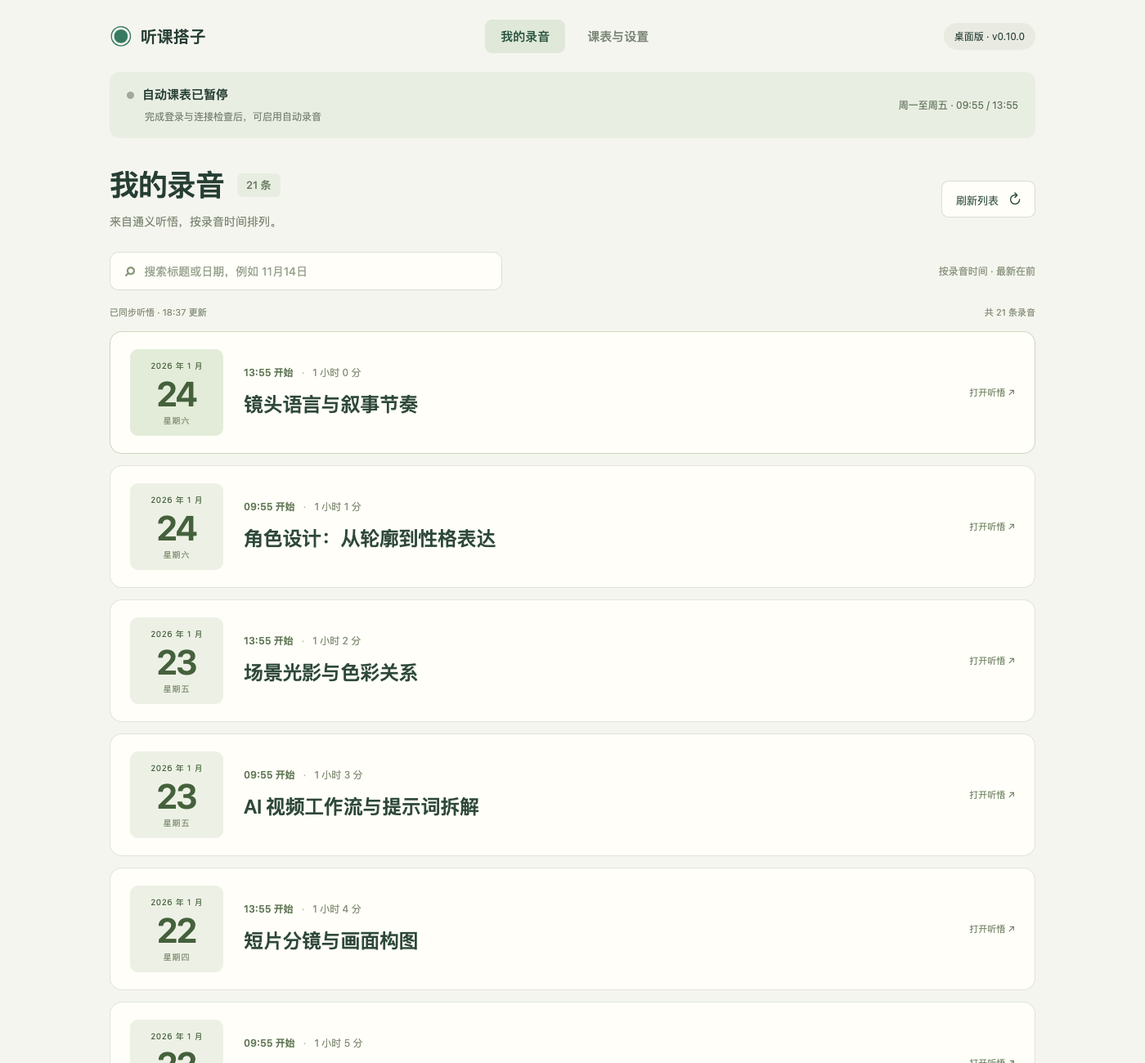
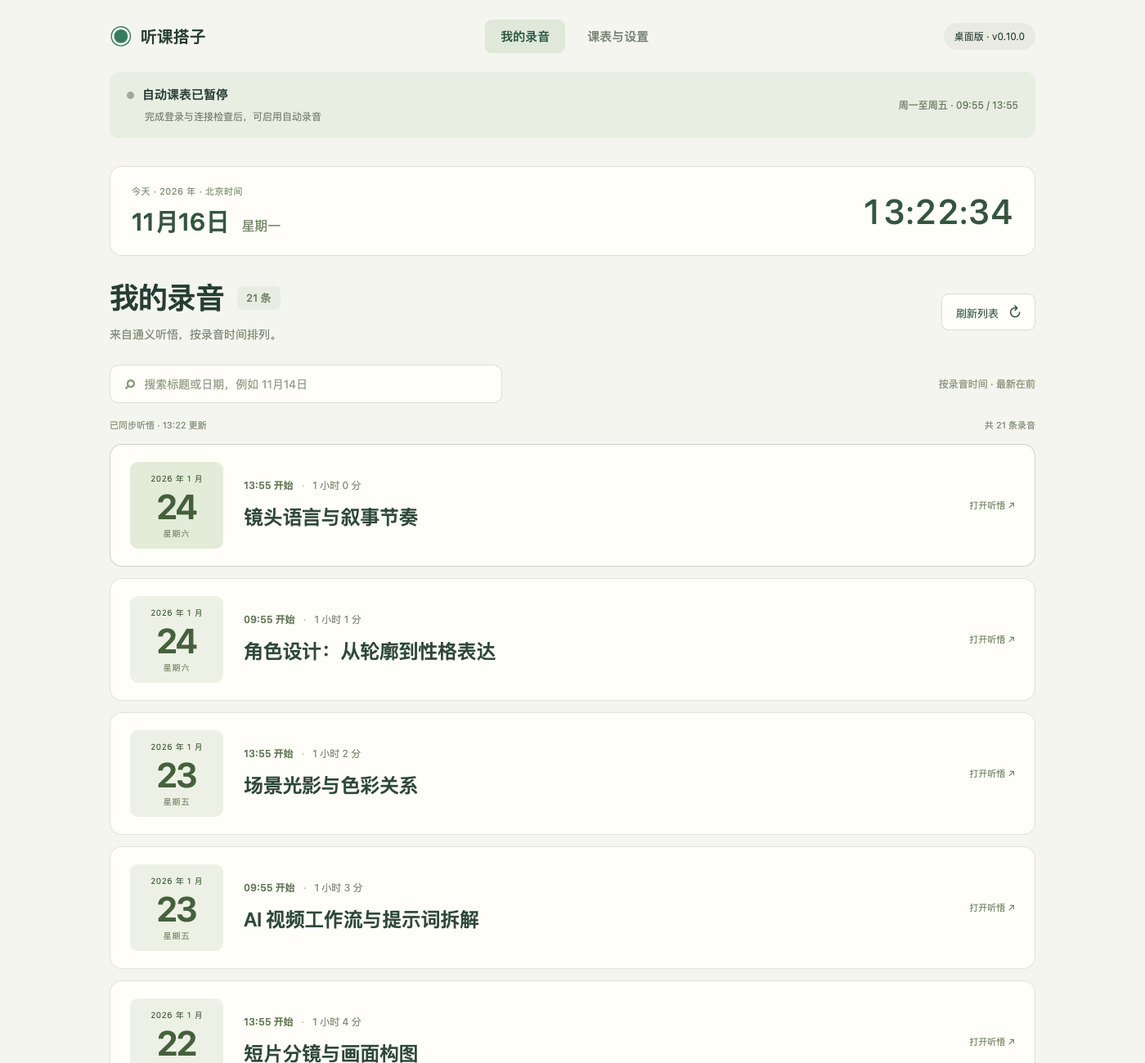
feat: add a live home clock and colorful branching lesson maps
Show the current Beijing date, weekday and time on the home page, updating every second and across midnight. Replace the map view with rounded nodes and curved, color-coded branches from the lesson topic to chapters, key points and Tingwu notes.

Support panning, zooming, fit-to-width/full-map views, branch expansion and full-text inspection while preserving the outline, notes and transcript views. The installed desktop UI was updated without restarting the recording service.

Validation: isolated desktop UI checks for layout, non-overlapping nodes, note text, panning, zoom, folding, navigation and existing controls; cached long-class checks preserve 24 chapters, 55 points and 38 notes across 122 nodes. Public preview images use fictional lessons. No personal content, credentials or runtime data are included.

diff --git a/desktop/app.js b/desktop/app.js
@@ -1,4 +1,18 @@
 const $=s=>document.querySelector(s), token=$('meta[name="tingwu-token"]').content;
+const homeClockFormat=new Intl.DateTimeFormat('zh-CN',{timeZone:'Asia/Shanghai',year:'numeric',month:'numeric',day:'numeric',weekday:'long',hour:'2-digit',minute:'2-digit',second:'2-digit',hourCycle:'h23'});
+function updateHomeClock(){
+ const now=new Date(),p=Object.fromEntries(homeClockFormat.formatToParts(now).map(x=>[x.type,x.value]));
+ $('#today-caption').textContent=`今天 · ${p.year} 年 · 北京时间`;
+ $('#today-date').textContent=`${p.month}月${p.day}日`;
+ $('#today-date').dateTime=`${p.year}-${p.month.padStart(2,'0')}-${p.day.padStart(2,'0')}`;
+ $('#today-weekday').textContent=p.weekday;
+ $('#today-clock').textContent=`${p.hour}:${p.minute}:${p.second}`;
+ $('#today-clock').dateTime=now.toISOString();
+}
+updateHomeClock();
+setInterval(updateHomeClock,1000);
+document.addEventListener('visibilitychange',()=>{if(!document.hidden)updateHomeClock();});
+window.addEventListener('pageshow',updateHomeClock);
 let state=null,toastTimer;
 let libraryViewKey='',libraryDeferred=false,libraryRequest=false,libraryAttemptAt=0,libraryRequestError='';
 const LABELS={morning:'上午课前',noon:'中午下课',afternoon:'下午课前',evening:'下午下课'};
@@ -133,11 +147,123 @@ function on(selector,fn){$(selector).addEventListener('click',async()=>{const b=
 async function save(enabled=state.settings.enabled){const settings={enabled,...Object.fromEntries(['morning','noon','afternoon','evening'].map(k=>[k,$('#'+k).value]))};const result=await api('save',{settings});toast(result.message);await refresh(true);}
 let detailSelected=null,detailGeneration=0,detailTimer,detailData=null,detailRenderKey='',detailView='map',libraryScroll=0;
 function timeLabel(seconds){if(!Number.isFinite(seconds))return '';const n=Math.floor(seconds);return (n>=3600?Math.floor(n/3600)+':':'')+String(Math.floor(n%3600/60)).padStart(2,'0')+':'+String(n%60).padStart(2,'0');}
+// Mind-map nodes keep their full source text; compact labels never replace it.
+const mindmapState={root:null,nodes:[],collapsed:new Set(),zoom:1,width:0,height:0,needsFit:true,autoWidth:true,selected:null,drawFrame:0};
+function compactMapLabel(text,max=30){
+ const value=String(text||'').replace(/\s+/g,' ').trim();if(value.length<=max)return value;
+ const clause=value.split(/[，,；;。！？]/)[0];return (clause.length>=10&&clause.length<=max?clause:value.slice(0,max))+'…';
+}
+function buildMindmap(detail,title){
+ const noteNode=(note,key,color)=>({key,kind:'note',color,text:note.text,label:compactMapLabel(note.text,32),source:'你的笔记'+(note.matchedBy==='time'?' · 按时间对应':note.matchedBy==='keywords'?' · 按关键词对应':''),children:[]});
+ const children=detail.chapters.map((chapter,i)=>{
+  const key='topic-'+i,color=i%6,points=chapter.points.map((point,j)=>({key:key+'-point-'+j,kind:'point',color,text:point,label:compactMapLabel(point),source:chapter.source==='transcript'?'转写原文摘录':'录音要点',children:[]}));
+  if(chapter.notes.length)points.push({key:key+'-notes',kind:'note-group',color,text:'你的笔记',label:`你的笔记 · ${chapter.notes.length} 段`,source:'听悟笔记区',children:chapter.notes.map(n=>noteNode(n,key+'-'+n.id,color))});
+  return {key,kind:'topic',color,text:chapter.title,label:chapter.title,source:`第 ${i+1} 章`,children:points};
+ });
+ if(detail.notes.unmatched.length)children.push({key:'supplement',kind:'topic',color:children.length%6,text:'笔记补充',label:'笔记补充',source:'暂未对应具体章节的笔记',children:detail.notes.unmatched.map(n=>noteNode(n,'supplement-'+n.id,children.length%6))});
+ mindmapState.root={key:'root',kind:'root',color:0,text:title,label:title,source:'课堂主题',children};
+ mindmapState.needsFit=true;mindmapState.autoWidth=true;mindmapState.selected=null;$('#mindmap-inspector').hidden=true;
+ $('#mindmap-count').textContent=`${detail.chapters.length} 个章节 · ${detail.notes.items.length} 段笔记`;
+}
+function mapVisibleChildren(node){return mindmapState.collapsed.has(node.key)?[]:node.children;}
+function mapExpandableNodes(node=mindmapState.root){if(!node)return [];return [...(node.kind!=='root'&&node.children.length?[node]:[]),...node.children.flatMap(n=>mapExpandableNodes(n))];}
+function updateExpandLabel(){
+ const expanded=detailView==='map'?mapExpandableNodes().some(n=>!mindmapState.collapsed.has(n.key)):[...document.querySelectorAll('.map-branch')].some(e=>e.open);
+ $('#detail-expand').textContent=expanded?'收起全部':'展开全部';
+}
+function closeMapInspector(restoreFocus=false){
+ const key=mindmapState.selected;mindmapState.selected=null;$('#mindmap-inspector').hidden=true;
+ for(const node of mindmapState.nodes)node.button?.classList.remove('is-selected');
+ if(restoreFocus)mindmapState.nodes.find(n=>n.key===key)?.button.focus({preventScroll:true});
+}
+function selectMapNode(node){
+ mindmapState.selected=node.key;for(const n of mindmapState.nodes)n.button.classList.toggle('is-selected',n.key===node.key);
+ $('#mindmap-inspector-source').textContent=node.source;$('#mindmap-inspector-title').textContent=node.kind==='root'?'课堂主题':node.kind==='point'?'录音要点':node.kind==='note'?'你的笔记':node.text;
+ const body=$('#mindmap-inspector-content');body.replaceChildren(element('p','',node.text));
+ if(node.children.length){const list=element('ul','');for(const child of node.children)list.append(element('li','',child.text));body.append(list);}
+ $('#mindmap-inspector').hidden=false;$('#mindmap-inspector-title').focus({preventScroll:true});
+}
+function scheduleMindmapDraw(){
+ cancelAnimationFrame(mindmapState.drawFrame);mindmapState.drawFrame=requestAnimationFrame(()=>{if(detailView==='map'&&!$('#detail-page').hidden)drawMindmap();});
+}
+function drawMindmap(anchorKey=null){
+ const m=mindmapState,v=$('#mindmap-viewport');if(!m.root||!v.clientWidth)return;
+ const oldAnchor=m.nodes.find(n=>n.key===anchorKey),anchor=oldAnchor?{x:(oldAnchor.x+oldAnchor.width/2)*m.zoom-v.scrollLeft,y:(oldAnchor.y+oldAnchor.height/2)*m.zoom-v.scrollTop}:null;
+ const focusKey=document.activeElement?.dataset.mapToggle;
+ const layer=$('#mindmap-nodes'),svg=$('#mindmap-lines');layer.replaceChildren();svg.replaceChildren();m.nodes=[];
+ const walk=(node,depth)=>{
+  node.depth=depth;node.width=node.kind==='root'?232:node.kind==='topic'?238:node.kind==='note-group'?220:274;
+  const button=element('button',`mind-node mind-${node.kind} map-color-${node.color}`);button.dataset.mapKey=node.key;button.title=node.text;button.setAttribute('aria-label',node.source+'：'+node.text+'。查看全文');button.style.width=node.width+'px';
+  if(node.kind==='note')button.append(element('span','mind-note-icon','✎'));
+  button.classList.toggle('is-selected',m.selected===node.key);button.append(element('span','mind-node-label',node.label));button.onclick=()=>selectMapNode(node);layer.append(button);node.button=button;
+  node.height=button.offsetHeight;node.x=[38,352,674,1028][depth]??(1028+(depth-3)*352);m.nodes.push(node);
+  const kids=mapVisibleChildren(node);for(const child of kids)walk(child,depth+1);
+  node.gap=node.kind==='root'?34:12;
+  node.childrenHeight=kids.reduce((total,c)=>total+c.span,0)+Math.max(0,kids.length-1)*node.gap;
+  node.span=Math.max(node.height,node.childrenHeight);
+ };
+ walk(m.root,0);
+ const place=(node,top)=>{
+  node.y=top+(node.span-node.height)/2;node.button.style.left=node.x+'px';node.button.style.top=node.y+'px';
+  let next=top+(node.span-node.childrenHeight)/2;for(const child of mapVisibleChildren(node)){place(child,next);next+=child.span+node.gap;}
+ };
+ place(m.root,36);m.width=Math.max(...m.nodes.map(n=>n.x+n.width))+40;m.height=m.root.span+72;
+ svg.setAttribute('width',m.width);svg.setAttribute('height',m.height);svg.setAttribute('viewBox',`0 0 ${m.width} ${m.height}`);
+ for(const parent of m.nodes){
+  for(const child of mapVisibleChildren(parent)){
+   const path=document.createElementNS('http://www.w3.org/2000/svg','path'),x1=parent.x+parent.width,y1=parent.y+parent.height/2,x2=child.x,y2=child.y+child.height/2,bend=Math.min(76,(x2-x1)*.58);
+   path.setAttribute('d',`M ${x1} ${y1} C ${x1+bend} ${y1}, ${x2-bend} ${y2}, ${x2} ${y2}`);path.setAttribute('class',`mind-edge map-color-${child.color}${parent.kind==='root'?' main-edge':''}`);svg.append(path);
+  }
+  if(parent.kind!=='root'&&parent.children.length){
+   const closed=m.collapsed.has(parent.key),toggle=element('button',`mind-toggle map-color-${parent.color}`,closed?'+':'−');toggle.dataset.mapToggle=parent.key;toggle.style.left=(parent.x+parent.width+7)+'px';toggle.style.top=(parent.y+parent.height/2-11)+'px';toggle.setAttribute('aria-expanded',String(!closed));toggle.setAttribute('aria-label',(closed?'展开':'收起')+'分支：'+parent.text);
+   toggle.onclick=()=>{closeMapInspector();if(closed)m.collapsed.delete(parent.key);else m.collapsed.add(parent.key);drawMindmap(parent.key);};layer.append(toggle);
+  }
+ }
+ $('#mindmap-canvas').style.width=m.width+'px';$('#mindmap-canvas').style.height=m.height+'px';
+ if(m.needsFit){m.needsFit=false;fitMindmap('auto');}else{applyMindmapZoom(m.zoom,false);if(anchor){const updated=m.nodes.find(n=>n.key===anchorKey);if(updated){v.scrollLeft=(updated.x+updated.width/2)*m.zoom-anchor.x;v.scrollTop=(updated.y+updated.height/2)*m.zoom-anchor.y;}}}
+ if(focusKey)[...layer.querySelectorAll('[data-map-toggle]')].find(e=>e.dataset.mapToggle===focusKey)?.focus({preventScroll:true});
+ updateExpandLabel();
+}
+function applyMindmapZoom(value,keepCenter=true){
+ const m=mindmapState,v=$('#mindmap-viewport');if(!m.root)return;
+ const center={x:(v.scrollLeft+v.clientWidth/2)/m.zoom,y:(v.scrollTop+v.clientHeight/2)/m.zoom};
+ m.zoom=Math.max(.02,Math.min(2.5,value));$('#mindmap-canvas').style.transform=`scale(${m.zoom})`;$('#mindmap-space').style.width=Math.ceil(m.width*m.zoom)+'px';$('#mindmap-space').style.height=Math.ceil(m.height*m.zoom)+'px';
+ $('#map-zoom-reset').textContent=Math.round(m.zoom*100)+'%';$('#map-zoom-out').disabled=m.zoom<=.02;$('#map-zoom-in').disabled=m.zoom>=2.5;
+ if(keepCenter){v.scrollLeft=center.x*m.zoom-v.clientWidth/2;v.scrollTop=center.y*m.zoom-v.clientHeight/2;}
+}
+function fitMindmap(mode='auto'){
+ const m=mindmapState,v=$('#mindmap-viewport');if(!m.width||!v.clientWidth)return;
+ const width=(v.clientWidth-16)/m.width,height=(v.clientHeight-16)/m.height;
+ m.autoWidth=mode==='width'||mode==='auto';const scale=mode==='all'?Math.min(width,height):mode==='auto'&&v.clientWidth<600?Math.max(.65,width):width;applyMindmapZoom(Math.min(1,scale),false);
+ v.scrollLeft=0;v.scrollTop=mode==='all'?0:Math.max(0,(m.root.y+m.root.height/2)*m.zoom-v.clientHeight/2);
+}
+function zoomMindmap(factor){mindmapState.autoWidth=false;applyMindmapZoom(mindmapState.zoom*factor);}
+$('#map-zoom-in').onclick=()=>zoomMindmap(1.2);$('#map-zoom-out').onclick=()=>zoomMindmap(1/1.2);
+$('#map-zoom-reset').onclick=()=>{mindmapState.autoWidth=false;applyMindmapZoom(1);};$('#map-fit-width').onclick=()=>fitMindmap('width');$('#map-fit-all').onclick=()=>fitMindmap('all');
+$('#mindmap-inspector-close').onclick=()=>closeMapInspector(true);
+$('#detail-map').addEventListener('keydown',e=>{if(e.key==='Escape')closeMapInspector(true);});
+const mapViewport=$('#mindmap-viewport');let mapDrag=null;
+mapViewport.addEventListener('pointerdown',e=>{
+ if(e.pointerType!=='mouse'||e.button!==0||e.target.closest('button'))return;
+ mapDrag={id:e.pointerId,x:e.clientX,y:e.clientY,left:mapViewport.scrollLeft,top:mapViewport.scrollTop};mapViewport.setPointerCapture(e.pointerId);mapViewport.classList.add('is-dragging');mapViewport.focus({preventScroll:true});e.preventDefault();
+});
+mapViewport.addEventListener('pointermove',e=>{if(mapDrag&&mapDrag.id===e.pointerId){mapViewport.scrollLeft=mapDrag.left-(e.clientX-mapDrag.x);mapViewport.scrollTop=mapDrag.top-(e.clientY-mapDrag.y);}});
+function endMapDrag(){mapDrag=null;mapViewport.classList.remove('is-dragging');}
+mapViewport.addEventListener('pointerup',endMapDrag);mapViewport.addEventListener('pointercancel',endMapDrag);mapViewport.addEventListener('lostpointercapture',endMapDrag);
+mapViewport.addEventListener('keydown',e=>{
+ if(e.target!==mapViewport)return;
+ const moves={ArrowLeft:[-100,0],ArrowRight:[100,0],ArrowUp:[0,-100],ArrowDown:[0,100]};
+ if(moves[e.key]){e.preventDefault();mapViewport.scrollBy(...moves[e.key]);}else if(['+','=','-','0'].includes(e.key)){e.preventDefault();if(e.key==='0')fitMindmap();else zoomMindmap(e.key==='-'?1/1.2:1.2);}
+});
+mapViewport.addEventListener('wheel',e=>{if(e.ctrlKey||e.metaKey){e.preventDefault();zoomMindmap(e.deltaY<0?1.08:1/1.08);}},{passive:false});
+let mapResizeWidth=0;
+new ResizeObserver(()=>{const w=mapViewport.clientWidth;if(w&&w!==mapResizeWidth){mapResizeWidth=w;if(mindmapState.needsFit)scheduleMindmapDraw();else if(mindmapState.autoWidth)fitMindmap();}}).observe(mapViewport);
+
 function setDetailView(view){
  detailView=view;
  for(const name of ['map','outline','notes','transcript']){const tab=$('#'+name+'-tab');tab.classList.toggle('selected',name===view);tab.setAttribute('aria-selected',String(name===view));tab.tabIndex=name===view?0:-1;}
- const tree=view==='map'||view==='outline';$('#detail-tree').hidden=!tree;$('#detail-tree').classList.toggle('outline-view',view==='outline');$('#detail-tree').setAttribute('aria-labelledby',view==='map'?'map-tab':'outline-tab');
- $('#detail-notes').hidden=view!=='notes';$('#detail-transcript').hidden=view!=='transcript';$('#detail-expand').hidden=!tree;
+ const tree=view==='map'||view==='outline';$('#detail-map').hidden=view!=='map';$('#detail-tree').hidden=view!=='outline';if(view==='map')scheduleMindmapDraw();
+ $('#detail-notes').hidden=view!=='notes';$('#detail-transcript').hidden=view!=='transcript';$('#detail-expand').hidden=!tree;updateExpandLabel();
 }
 function noteElement(note,associated=false){
  const item=element('div','outline-note');item.dataset.noteId=note.id;
@@ -150,7 +276,7 @@ function branchElement(chapter,index,extra=false){
  if(chapter.start!==null&&chapter.start!==undefined)content.append(element('span','branch-time',`${timeLabel(chapter.start)}${Number.isFinite(chapter.end)?' — '+timeLabel(chapter.end):''}`));
  if(chapter.points?.length){const list=element('ul','branch-points');for(const point of chapter.points)list.append(element('li','',point));content.append(list);}
  for(const note of chapter.notes||[])content.append(noteElement(note,!extra));
- branch.append(content);branch.addEventListener('toggle',()=>{$('#detail-expand').textContent=[...document.querySelectorAll('.map-branch')].some(e=>e.open)?'收起全部':'展开全部';});return branch;
+ branch.append(content);branch.addEventListener('toggle',()=>{if(detailView==='outline')updateExpandLabel();});return branch;
 }
 function renderDetailData(detail){
  const key=JSON.stringify([detail.transId,detail.updatedAt,detail.title]);if(key===detailRenderKey)return;detailRenderKey=key;detailData=detail;
@@ -160,7 +286,7 @@ function renderDetailData(detail){
  const notes=detail.notes;
  $('#detail-note-badge').textContent=notes.status==='error'?'笔记待同步':notes.items.length?`已结合 ${notes.matched} 段笔记 · 共 ${notes.items.length} 段`:'未记录笔记 · 根据录音整理';
  $('#detail-source').textContent=detail.mode==='tingwu'?'依据听悟全文概要与全部章节整理。笔记按时间或关键词归入章节，未对应的笔记单独保留。':'听悟章节尚未生成，当前为转写分段摘录；全文保留在「转写原文」中。';
- $('#map-root-title').textContent=title;$('#map-root-count').textContent=`${detail.chapters.length} 个章节 · ${notes.items.length} 段笔记`;
+ buildMindmap(detail,title);
  $('#detail-warnings').hidden=!detail.warnings.length;$('#detail-warnings').replaceChildren(...detail.warnings.map(w=>element('p','',w)));
  const branches=detail.chapters.map((c,i)=>branchElement(c,i));
  if(notes.unmatched.length)branches.push(branchElement({id:'notes-supplement',title:'笔记补充 · 暂未对应具体章节',notes:notes.unmatched,points:[]},branches.length,true));
@@ -194,7 +320,7 @@ async function loadDetail({refresh=false,poll=false}={}){
 function openDetail(record){
  if(detailSelected===record.transId&&!$('#detail-page').hidden)return;
  if(!$('#library-page').hidden)libraryScroll=window.scrollY;
- detailGeneration++;clearTimeout(detailTimer);detailSelected=record.transId;detailData=null;detailRenderKey='';detailView='map';
+ detailGeneration++;clearTimeout(detailTimer);detailSelected=record.transId;detailData=null;detailRenderKey='';detailView='map';mindmapState.collapsed.clear();mindmapState.root=null;closeMapInspector();
  showPage('detail');const r=recordingView(record);$('#detail-title').textContent=r.title;$('#detail-title').focus({preventScroll:true});
  $('#detail-meta').textContent=[r.parts&&`${r.parts.year} 年 ${Number(r.parts.month)} 月 ${Number(r.parts.day)} 日 · ${r.parts.hour}:${r.parts.minute}`,r.duration].filter(Boolean).join('　/　');
  const original=$('#detail-original');original.hidden=!r.url;if(r.url)original.href=r.url;else original.removeAttribute('href');
@@ -211,7 +337,10 @@ $('#detail-back').addEventListener('click',()=>{location.hash='library';});
 $('#detail-refresh').addEventListener('click',()=>{if(detailSelected){$('#detail-refresh').disabled=true;loadDetail({refresh:true});}});
 for(const view of ['map','outline','notes','transcript'])$('#'+view+'-tab').addEventListener('click',()=>setDetailView(view));
 $('.detail-tabs').addEventListener('keydown',event=>{if(!['ArrowLeft','ArrowRight','Home','End'].includes(event.key))return;event.preventDefault();const views=['map','outline','notes','transcript'];let i=views.indexOf(detailView);i=event.key==='Home'?0:event.key==='End'?3:(i+(event.key==='ArrowRight'?1:3))%4;setDetailView(views[i]);$('#'+views[i]+'-tab').focus();});
-$('#detail-expand').addEventListener('click',()=>{const rows=[...document.querySelectorAll('.map-branch')],open=!rows.some(e=>e.open);for(const row of rows)row.open=open;$('#detail-expand').textContent=open?'收起全部':'展开全部';});
+$('#detail-expand').addEventListener('click',()=>{
+ if(detailView==='map'){const nodes=mapExpandableNodes(),collapse=nodes.some(n=>!mindmapState.collapsed.has(n.key));for(const node of nodes){if(collapse)mindmapState.collapsed.add(node.key);else mindmapState.collapsed.delete(node.key);}closeMapInspector();mindmapState.needsFit=true;drawMindmap();}
+ else{const rows=[...document.querySelectorAll('.map-branch')],open=!rows.some(e=>e.open);for(const row of rows)row.open=open;updateExpandLabel();}
+});
 
 $('#schedule-form').addEventListener('submit',async e=>{e.preventDefault();try{await save();}catch(e){toast(e.message);}});
 on('#naming-toggle',async()=>{toast((await api('naming-toggle',{enabled:!state.naming.enabled})).message);});

diff --git a/desktop/style.css b/desktop/style.css
@@ -10,3 +10,9 @@ body{background:#f5f5ef;color:#263e34}main{max-width:1220px;padding:24px 44px 32
 
 /* In-app lesson map. All chapter titles remain visible, including folded branches. */
 body:has(#detail-page:not([hidden])) #run-health:not(.warning){display:none}.detail-topbar{display:flex;align-items:center;justify-content:space-between;gap:16px;margin:0 0 28px}.detail-topbar>.text-button{font-size:14px}.detail-actions{display:flex;gap:10px;align-items:center}.detail-actions>a{display:inline-block;text-decoration:none;font-size:12px;padding:11px 16px;border-radius:9px}.detail-heading h1{font-size:34px;line-height:1.5;letter-spacing:-.5px;margin:0;max-width:1000px;overflow-wrap:anywhere}.detail-heading .eyebrow{font-size:12px;letter-spacing:.6px;margin-bottom:12px}.detail-heading h1:focus{outline:none}#detail-health{font-size:12px;line-height:1.8;color:#7b8973;margin:12px 0 23px}#detail-health.warning{color:#93622f}#detail-warnings{background:#fcf0da;border:1px solid #ead8b8;color:#876334;padding:12px 20px;border-radius:12px;margin-bottom:20px;font-size:12px;line-height:1.8}#detail-warnings p{margin:4px 0}.detail-summary{padding:25px 28px;background:#e8eddf;border:1px solid #d9e1ce;border-radius:16px;margin-bottom:30px}.summary-caption{display:flex;justify-content:space-between;gap:15px;align-items:center;color:#536e42;font-size:13px;font-weight:600}.summary-caption>span:last-child{font-size:11px;font-weight:500;background:#f6f7ef;padding:6px 10px;border-radius:6px}#detail-summary-text{font-size:17px;line-height:1.95;margin:15px 0;color:#334e3d;white-space:pre-line}.detail-source{font-size:12px;line-height:1.8;color:#7d8c70;margin:12px 0 0}.outline-toolbar{display:flex;justify-content:space-between;gap:16px;align-items:center;border-bottom:1px solid #dce3d4;margin-bottom:28px;padding-bottom:13px}.detail-tabs{display:flex;gap:5px}.detail-tabs button{border:0;background:transparent;padding:10px 16px;font-size:14px;color:#7a8870}.detail-tabs button.selected{background:#dce6d3;color:#31572f;font-weight:600}.outline-toolbar>.text-button{font-size:12px;white-space:nowrap}.mindmap-layout{display:grid;grid-template-columns:215px minmax(0,1fr);gap:42px;align-items:start;padding:8px 0 10px}.map-root{position:sticky;top:28px;align-self:start;margin-top:12px;background:#355c46;border-radius:14px;color:#fffdf4;padding:23px 22px}.map-root:after{content:'';position:absolute;left:100%;top:44px;width:42px;border-top:1px solid #afbea0}.map-root .eyebrow{color:#b9c9a8;font-size:10px;letter-spacing:1.5px;margin:0 0 13px;display:block}.map-root h2{font-size:23px;line-height:1.65;font-weight:600;overflow-wrap:anywhere}.map-root>p{font-size:11px;color:#c1ceb5;margin:17px 0 24px}.map-legend{display:flex;align-items:center;gap:5px;font-size:9px;color:#c9d3c1;flex-wrap:wrap}.map-legend i{width:6px;height:6px;border-radius:50%;background:#c0d8a7}.map-legend i.note-dot{background:#e7bd6f;margin-left:7px}.map-branches{border-left:1px solid #c4d1b6;padding:12px 0 12px 28px;display:grid;gap:18px;min-width:0}.map-branch{position:relative;background:#fffef9;border:1px solid #dce4d3;border-radius:12px;min-width:0;overflow-wrap:anywhere}.map-branch:before{content:'';position:absolute;right:100%;width:29px;top:44px;border-top:1px solid #c4d1b6}.branch-heading{list-style:none;cursor:pointer;display:flex;align-items:flex-start;gap:13px;padding:23px 23px 21px}.branch-heading::-webkit-details-marker{display:none}.branch-heading:focus-visible{outline:3px solid #c99a53;outline-offset:3px;border-radius:10px}.branch-number{font:500 12px/28px ui-monospace,monospace;background:#edf2e5;color:#748968;width:30px;text-align:center;flex:none;border-radius:7px;margin-top:2px}.branch-heading h3{font-size:20px;font-weight:600;line-height:1.55;margin:0;letter-spacing:-.2px;flex:1;min-width:0}.branch-toggle{color:#809272;font-size:19px;transition:transform .15s;padding:2px 0 0 3px}.map-branch:not([open]) .branch-toggle{transform:rotate(-90deg)}.branch-content{padding:0 24px 23px 66px}.branch-points{padding-left:17px;margin:0;color:#607156;font-size:14px;line-height:1.95}.branch-points li+li{margin-top:9px}.branch-points li::marker{color:#a5b796}.branch-time{display:block;color:#8a987c;font:11px ui-monospace,monospace;margin:0 0 12px}.outline-note{background:#faf2de;border-left:3px solid #d5ad65;padding:12px 15px;border-radius:0 8px 8px 0;margin-top:16px}.note-label{font-size:10px;color:#a47d39;letter-spacing:.5px}.outline-note p{font-size:14px;line-height:1.9;color:#745f38;white-space:pre-wrap;overflow-wrap:anywhere;margin:6px 0 0}.extra-notes{border-color:#e5d9bf}.extra-notes .branch-number{color:#aa803e;background:#f6eddb}.outline-view{display:block}.outline-view .map-root{display:none}.outline-view .map-branches{border:0;padding:0;gap:16px}.outline-view .map-branch:before{display:none}.detail-notes,.detail-transcript{padding:26px 30px;background:#fffef9;border:1px solid #dce4d3;border-radius:14px}.detail-notes h2,.detail-transcript h2{font-size:22px;margin:0 0 15px}.detail-notes .outline-note{margin-top:14px}.transcript-row{display:grid;grid-template-columns:72px minmax(0,1fr);gap:15px;padding:20px 0;border-bottom:1px solid #e9eddf}.transcript-time{font:11px/2 ui-monospace,monospace;color:#8a987c;padding-top:2px}.transcript-row p{font-size:14px;line-height:1.95;margin:0;white-space:pre-wrap;overflow-wrap:anywhere}@media(max-width:900px){.mindmap-layout{grid-template-columns:180px minmax(0,1fr);gap:26px}.map-root{padding:19px 17px}.map-root:after{width:26px}.map-root h2{font-size:20px}.map-branches{padding-left:19px}.map-branch:before{width:20px}.branch-heading{padding:20px 18px;gap:10px}.branch-heading h3{font-size:18px}.branch-content{padding:0 19px 20px 19px}.detail-tabs button{padding:10px 11px}}@media(max-width:600px){.detail-topbar{align-items:flex-start;gap:10px;margin-bottom:23px}.detail-topbar>.text-button{font-size:12px;white-space:nowrap}.detail-actions{gap:6px;flex-wrap:wrap;justify-content:flex-end}.detail-actions button,.detail-actions>a{font-size:10px;padding:8px 10px}.detail-heading h1{font-size:25px}.detail-heading .eyebrow{font-size:10px;letter-spacing:0}.detail-summary{padding:20px 18px;margin-bottom:22px}.summary-caption{align-items:flex-start;flex-direction:column;gap:9px}#detail-summary-text{font-size:15px;line-height:1.9}.detail-source{font-size:11px}.outline-toolbar{align-items:flex-start;gap:8px;flex-wrap:wrap;margin-bottom:20px}.detail-tabs{width:100%;gap:2px;justify-content:space-between}.detail-tabs button{padding:9px 10px;font-size:12px}.outline-toolbar>.text-button{margin-left:auto;font-size:11px}.mindmap-layout{display:block;padding-top:0}.map-root{position:relative;top:auto;margin:0 0 22px;padding:20px}.map-root:after{left:28px;top:100%;width:0;height:23px;border-top:0;border-left:1px solid #c4d1b6}.map-root .eyebrow{margin-bottom:8px}.map-root h2{font-size:22px;line-height:1.5}.map-root>p{margin:12px 0}.map-branches{margin-left:14px;padding-left:16px;padding-top:0;gap:15px}.map-branch:before{width:17px;top:38px}.branch-heading{padding:19px 14px;gap:9px}.branch-heading h3{font-size:18px}.branch-number{font-size:10px;width:26px;line-height:26px}.branch-content{padding:0 16px 19px}.branch-points{font-size:13px;line-height:1.9}.outline-note{padding:11px 12px}.outline-note p{font-size:13px}.outline-view .map-branches{margin:0}.detail-notes,.detail-transcript{padding:20px 16px}.transcript-row{grid-template-columns:48px minmax(0,1fr);gap:10px}.transcript-row p{font-size:13px}.transcript-time{font-size:10px}}
+
+/* The home clock follows the same Beijing timezone as the class schedule. */
+.home-today{display:flex;align-items:center;justify-content:space-between;gap:24px;padding:22px 26px;margin-bottom:28px;border:1px solid #dce4d3;border-radius:15px;background:#fffef9}.today-caption{display:block;font-size:11px;color:#7b8b70;letter-spacing:.5px;margin-bottom:9px}.today-date-line{display:flex;align-items:baseline;gap:15px;flex-wrap:wrap}#today-date{font-size:30px;font-weight:600;line-height:1.3;letter-spacing:-.6px;color:#34553e}#today-weekday{font-size:16px;color:#728366}#today-clock{font-size:42px;font-weight:500;line-height:1.2;letter-spacing:1px;font-variant-numeric:tabular-nums;color:#34553e;white-space:nowrap}@media(max-width:600px){.home-today{padding:18px;margin-bottom:24px;gap:14px}.today-caption{font-size:10px;letter-spacing:0}.today-date-line{gap:5px;flex-direction:column;align-items:flex-start}#today-date{font-size:25px;letter-spacing:-.5px}#today-weekday{font-size:12px}#today-clock{font-size:32px;letter-spacing:0}}@media(max-width:360px){.home-today{padding:15px;gap:10px}#today-date{font-size:23px}#today-clock{font-size:29px}}
+
+/* Curved, color-coded tree map, inspired by the user's reference. */
+.lesson-map{position:relative;border:1px solid #dae2d6;border-radius:14px;overflow:hidden;background:#fff;min-width:0;max-width:100%}.mindmap-toolbar{display:flex;align-items:center;justify-content:space-between;gap:14px;padding:14px 18px;border-bottom:1px solid #edf0e9;background:#fdfefb}.mindmap-legend{display:flex;gap:7px;align-items:center;font-size:11px;color:#7b8874;white-space:nowrap}.mindmap-legend i{display:inline-block;width:8px;height:8px;background:#67a8d9;border-radius:50%}.mindmap-legend b{font-size:15px;font-weight:400;margin-left:12px;color:#a17f4f}.mindmap-zoom-tools{display:flex;gap:5px;align-items:center}.mindmap-zoom-tools button{border:1px solid #e1e7da;background:#fff;color:#607554;padding:7px 10px;font-size:11px;border-radius:6px;white-space:nowrap}.mindmap-zoom-tools button:hover{background:#f0f5eb}#map-zoom-in,#map-zoom-out{font-size:15px;padding:4px 10px}#map-zoom-reset{min-width:53px;font-variant-numeric:tabular-nums}#mindmap-viewport{height:680px;height:clamp(500px,72vh,820px);width:100%;overflow:auto;position:relative;cursor:grab;overscroll-behavior:contain;touch-action:pan-x pan-y;scrollbar-width:thin;scrollbar-color:#ced9c7 #f6f8f3;background:#fff}#mindmap-viewport:focus-visible{outline:2px solid #97b98c;outline-offset:-3px}#mindmap-viewport.is-dragging{cursor:grabbing;user-select:none}#mindmap-space{position:relative;min-width:100%;min-height:100%}#mindmap-canvas{position:absolute;left:0;top:0;transform-origin:0 0}#mindmap-lines,#mindmap-nodes{position:absolute;left:0;top:0;overflow:visible}#mindmap-lines{pointer-events:none}.map-color-0{--mind-line:#579ed5;--mind-tint:#e3f0fb;--mind-light:#f5faff}.map-color-1{--mind-line:#92bb60;--mind-tint:#eaf3dc;--mind-light:#f8fbf1}.map-color-2{--mind-line:#a18acb;--mind-tint:#ece4f8;--mind-light:#faf7fd}.map-color-3{--mind-line:#e3a159;--mind-tint:#fcebd6;--mind-light:#fffaf3}.map-color-4{--mind-line:#65b5b0;--mind-tint:#e0f1ef;--mind-light:#f3fbfa}.map-color-5{--mind-line:#cc87a8;--mind-tint:#f8e4ed;--mind-light:#fdf6f9}.mind-edge{fill:none;stroke:var(--mind-line);stroke-width:1.8;stroke-linecap:round}.mind-edge.main-edge{stroke-width:3.5}.mind-node{position:absolute;display:flex;align-items:center;justify-content:center;gap:7px;text-align:center;border:1.2px solid var(--mind-line);border-radius:7px;background:var(--mind-light);color:#2f3d40;padding:11px 15px;line-height:1.55;font:400 16px/1.6 -apple-system,BlinkMacSystemFont,"PingFang SC","Microsoft YaHei",sans-serif;box-shadow:none;cursor:pointer;white-space:normal;overflow-wrap:anywhere;transition:background .15s,box-shadow .15s;min-height:49px}.mind-node:hover{background:var(--mind-tint);box-shadow:0 2px 10px #31432b0a}.mind-node:focus-visible,.mind-node.is-selected{outline:3px solid var(--mind-line);outline-offset:4px}.mind-node-label{display:-webkit-box;-webkit-box-orient:vertical;-webkit-line-clamp:3;overflow:hidden;min-width:0}.mind-root{font-size:24px;font-weight:650;line-height:1.65;padding:23px 19px;border:2px solid #347fbb;border-radius:15px;background:linear-gradient(135deg,#eef7fe,#dcecf9);min-height:112px;color:#273f52}.mind-root:hover{background:#e1effb}.mind-topic{font-size:20px;font-weight:600;line-height:1.6;padding:17px 17px;min-height:72px;background:var(--mind-tint);border-width:1.6px;border-radius:10px}.mind-point,.mind-note{font-size:15px;padding:10px 16px;background:#fff}.mind-point .mind-node-label,.mind-note .mind-node-label{-webkit-line-clamp:2}.mind-note{border-style:dashed;background:#fffdf8}.mind-note-icon{font-size:15px;flex:none;color:#a27d42}.mind-note-group{font-size:16px;background:var(--mind-tint)}.mind-toggle{position:absolute;padding:0;width:22px;height:22px;line-height:18px;border:1px solid var(--mind-line);border-radius:50%;background:#fff;color:var(--mind-line);font-size:15px;text-align:center;z-index:2}.mind-toggle:hover{background:var(--mind-tint)}.mindmap-foot{display:flex;justify-content:space-between;gap:12px;padding:12px 18px;border-top:1px solid #edf0e9;background:#fdfefb;font-size:10px;color:#8a967e;line-height:1.6}.mindmap-inspector{position:absolute;right:16px;top:70px;width:345px;max-width:calc(100% - 32px);max-height:calc(100% - 125px);overflow:auto;background:#fffef9;box-shadow:0 10px 36px #233f3426;border:1px solid #d2dfc9;border-radius:12px;padding:17px 21px;z-index:4}.inspector-top{display:flex;align-items:center;justify-content:space-between;gap:10px;color:#839475;font-size:11px}.inspector-top button{border:0;background:transparent;color:#809374;font-size:22px;padding:0 2px}.mindmap-inspector h3{font-size:18px;margin:12px 0 15px;line-height:1.6;overflow-wrap:anywhere}.mindmap-inspector h3:focus{outline:none}#mindmap-inspector-content{font-size:14px;color:#5d6c54;line-height:1.95;overflow-wrap:anywhere;white-space:pre-wrap}#mindmap-inspector-content p{margin:0 0 14px}#mindmap-inspector-content ul{padding-left:18px;white-space:normal}#mindmap-inspector-content li+li{margin-top:8px}@media(max-width:600px){.mindmap-toolbar{flex-wrap:wrap;padding:12px;gap:10px}.mindmap-legend{font-size:10px}.mindmap-zoom-tools{width:100%;justify-content:space-between;gap:4px}.mindmap-zoom-tools button{font-size:10px;padding:7px 8px}#map-zoom-reset{min-width:45px}#mindmap-viewport{height:540px;max-height:72vh;min-height:400px}.mindmap-foot{padding:10px 12px;flex-direction:column;gap:4px;font-size:9px}.mindmap-inspector{top:103px;right:10px;max-width:calc(100% - 20px);max-height:calc(100% - 180px);padding:15px 18px}}

diff --git a/desktop/index.html b/desktop/index.html
@@ -4,6 +4,7 @@
 <header class="app-header"><a class="brand" href="/"><span class="brand-icon" aria-hidden="true">◉</span> 听课搭子 <small>CLASS COMPANION</small></a><nav class="page-nav" aria-label="应用页面"><button id="library-tab" class="nav-button selected" aria-current="page" aria-controls="library-page">我的录音</button><button id="settings-tab" class="nav-button" aria-controls="settings-page">课表与设置</button></nav><span id="app-version" class="review">桌面版 · v0.10</span></header>
 <section class="status-bar"><div><span id="status-dot" class="dot"></span><strong id="status-title">正在连接桌面服务…</strong><p id="next">正在读取课表状态…</p><p id="run-health" role="status"></p></div><span class="schedule-summary" id="schedule-summary">周一至周五</span></section>
 <section id="library-page" aria-labelledby="library-title">
+ <section class="home-today" aria-label="今天的日期和北京时间"><div><span class="today-caption" id="today-caption">今天 · 北京时间</span><div class="today-date-line"><time id="today-date">—月—日</time><span id="today-weekday"></span></div></div><time id="today-clock" aria-live="off">--:--:--</time></section>
  <div class="library-heading"><div><h1 id="library-title">我的录音<span id="recording-count" class="count-label">—</span></h1><p class="library-intro">来自通义听悟，按录音时间排列。</p></div><button id="recordings-refresh" class="secondary refresh-button">刷新列表 <span aria-hidden="true">↻</span></button></div>
  <div class="library-toolbar"><label class="search-field"><span aria-hidden="true">⌕</span><input id="recording-search" type="search" aria-label="搜索录音标题或日期" placeholder="搜索标题或日期，例如 11月14日" autocomplete="off"></label><span class="sort-label">按录音时间 · 最新在前</span></div>
  <div class="library-meta"><p id="library-health" role="status">正在读取听悟录音…</p><span id="library-results"></span></div>
@@ -17,8 +18,14 @@
  <div id="detail-empty" class="library-empty" hidden></div>
  <div id="detail-content" hidden>
   <section class="detail-summary"><div class="summary-caption"><span>这堂课讲了什么</span><span id="detail-note-badge"></span></div><p id="detail-summary-text"></p><p id="detail-source" class="detail-source"></p></section>
-  <div class="outline-toolbar"><div class="detail-tabs" role="tablist" aria-label="录音内容视图"><button id="map-tab" role="tab" aria-selected="true" aria-controls="detail-tree" class="selected">思维导图</button><button id="outline-tab" role="tab" aria-selected="false" aria-controls="detail-tree">内容大纲</button><button id="notes-tab" role="tab" aria-selected="false" aria-controls="detail-notes">听悟笔记</button><button id="transcript-tab" role="tab" aria-selected="false" aria-controls="detail-transcript">转写原文</button></div><button id="detail-expand" class="text-button">收起全部</button></div>
-  <div id="detail-tree" class="mindmap-layout" role="tabpanel" aria-labelledby="map-tab"><aside class="map-root"><span class="eyebrow">课堂内容地图</span><h2 id="map-root-title"></h2><p id="map-root-count"></p><span class="map-legend"><i></i> 录音要点 <i class="note-dot"></i> 你的笔记</span></aside><div id="map-branches" class="map-branches"></div></div>
+  <div class="outline-toolbar"><div class="detail-tabs" role="tablist" aria-label="录音内容视图"><button id="map-tab" role="tab" aria-selected="true" aria-controls="detail-map" class="selected">思维导图</button><button id="outline-tab" role="tab" aria-selected="false" aria-controls="detail-tree">内容大纲</button><button id="notes-tab" role="tab" aria-selected="false" aria-controls="detail-notes">听悟笔记</button><button id="transcript-tab" role="tab" aria-selected="false" aria-controls="detail-transcript">转写原文</button></div><button id="detail-expand" class="text-button">收起全部</button></div>
+  <section id="detail-map" class="lesson-map" role="tabpanel" aria-labelledby="map-tab">
+   <div class="mindmap-toolbar"><span class="mindmap-legend"><i></i>章节与要点 <b>✎</b>你的笔记</span><div class="mindmap-zoom-tools"><button id="map-zoom-out" aria-label="缩小导图">−</button><button id="map-zoom-reset" aria-label="恢复百分之百大小">100%</button><button id="map-zoom-in" aria-label="放大导图">＋</button><button id="map-fit-width">适合宽度</button><button id="map-fit-all">查看全图</button></div></div>
+   <div id="mindmap-viewport" tabindex="0" role="region" aria-label="课程思维导图，可滚动或拖动查看。方向键平移，加减键缩放。"><div id="mindmap-space"><div id="mindmap-canvas"><svg id="mindmap-lines" xmlns="http://www.w3.org/2000/svg" aria-hidden="true"></svg><div id="mindmap-nodes"></div></div></div></div>
+   <div class="mindmap-foot"><span id="mindmap-count"></span><span>拖动空白处平移 · 点击节点看全文 · ± 展开或收起分支</span></div>
+   <aside id="mindmap-inspector" class="mindmap-inspector" aria-labelledby="mindmap-inspector-title" hidden><div class="inspector-top"><span id="mindmap-inspector-source"></span><button id="mindmap-inspector-close" aria-label="关闭节点全文">×</button></div><h3 id="mindmap-inspector-title" tabindex="-1"></h3><div id="mindmap-inspector-content"></div></aside>
+  </section>
+  <div id="detail-tree" class="mindmap-layout outline-view" role="tabpanel" aria-labelledby="outline-tab" hidden><div id="map-branches" class="map-branches"></div></div>
   <section id="detail-notes" class="detail-notes" role="tabpanel" aria-labelledby="notes-tab" hidden></section>
   <section id="detail-transcript" class="detail-transcript" role="tabpanel" aria-labelledby="transcript-tab" hidden></section>
  </div>

diff --git a/README.md b/README.md
@@ -7,6 +7,7 @@
 ## v0.10 录音大纲与听悟笔记
 
 - 点击录音标题直接进入 App 内的详情页；放大显示主题，提供「思维导图 / 内容大纲 / 听悟笔记 / 转写原文」四种视图。
+- 思维导图从左向右分层展开，按章节使用不同颜色的曲线与圆角节点；支持拖动、缩放、查看全图和分支展开收起。笔记以 ✎ 标记，长节点点击可查看全文。
 - 读取听悟全文概要与全部章节，不截取前几章。你的听悟笔记按时间标记或关键词归入相关章节，保留原文与来源；无法确定对应关系的笔记放在「笔记补充」，不会丢弃。
 - 没有笔记时根据录音整理；听悟暂未生成章节时，覆盖完整转写分段摘录，并明确标注为摘录。图像和附件笔记暂不识别文字，需在听悟查看原件。
 - 修改听悟笔记后可点击「重新整理」。读取失败会保留本机上次整理，并区分「没有笔记」和「笔记读取失败」。详情缓存仅保存在本机 `data/recording-details/`，不导出登录凭据、不下载音频，也不接入额外的 AI 服务。
@@ -18,6 +19,7 @@
 
 - 打开桌面 App 默认进入「我的录音」，按时间倒序展示听悟的全部已保存记录，不受命名历史条数限制。
 - 每条记录单独展示放大的日期、标题，以及开始时间和时长；点击标题在 App 内查看大纲、笔记与原文，右侧保留听悟回放入口。
+- 首页显示今天的月日、星期和实时时分秒，按北京时间每秒更新，跨午夜自动切换日期。
 - 支持按标题或日期搜索、手动刷新；上次同步的列表保存在本机，网络暂时不可用时仍可查看。
 - 课表、自动命名和测试入口集中到「课表与设置」。自动录音优先，列表同步不会切换听悟页面或操作鼠标。
 
